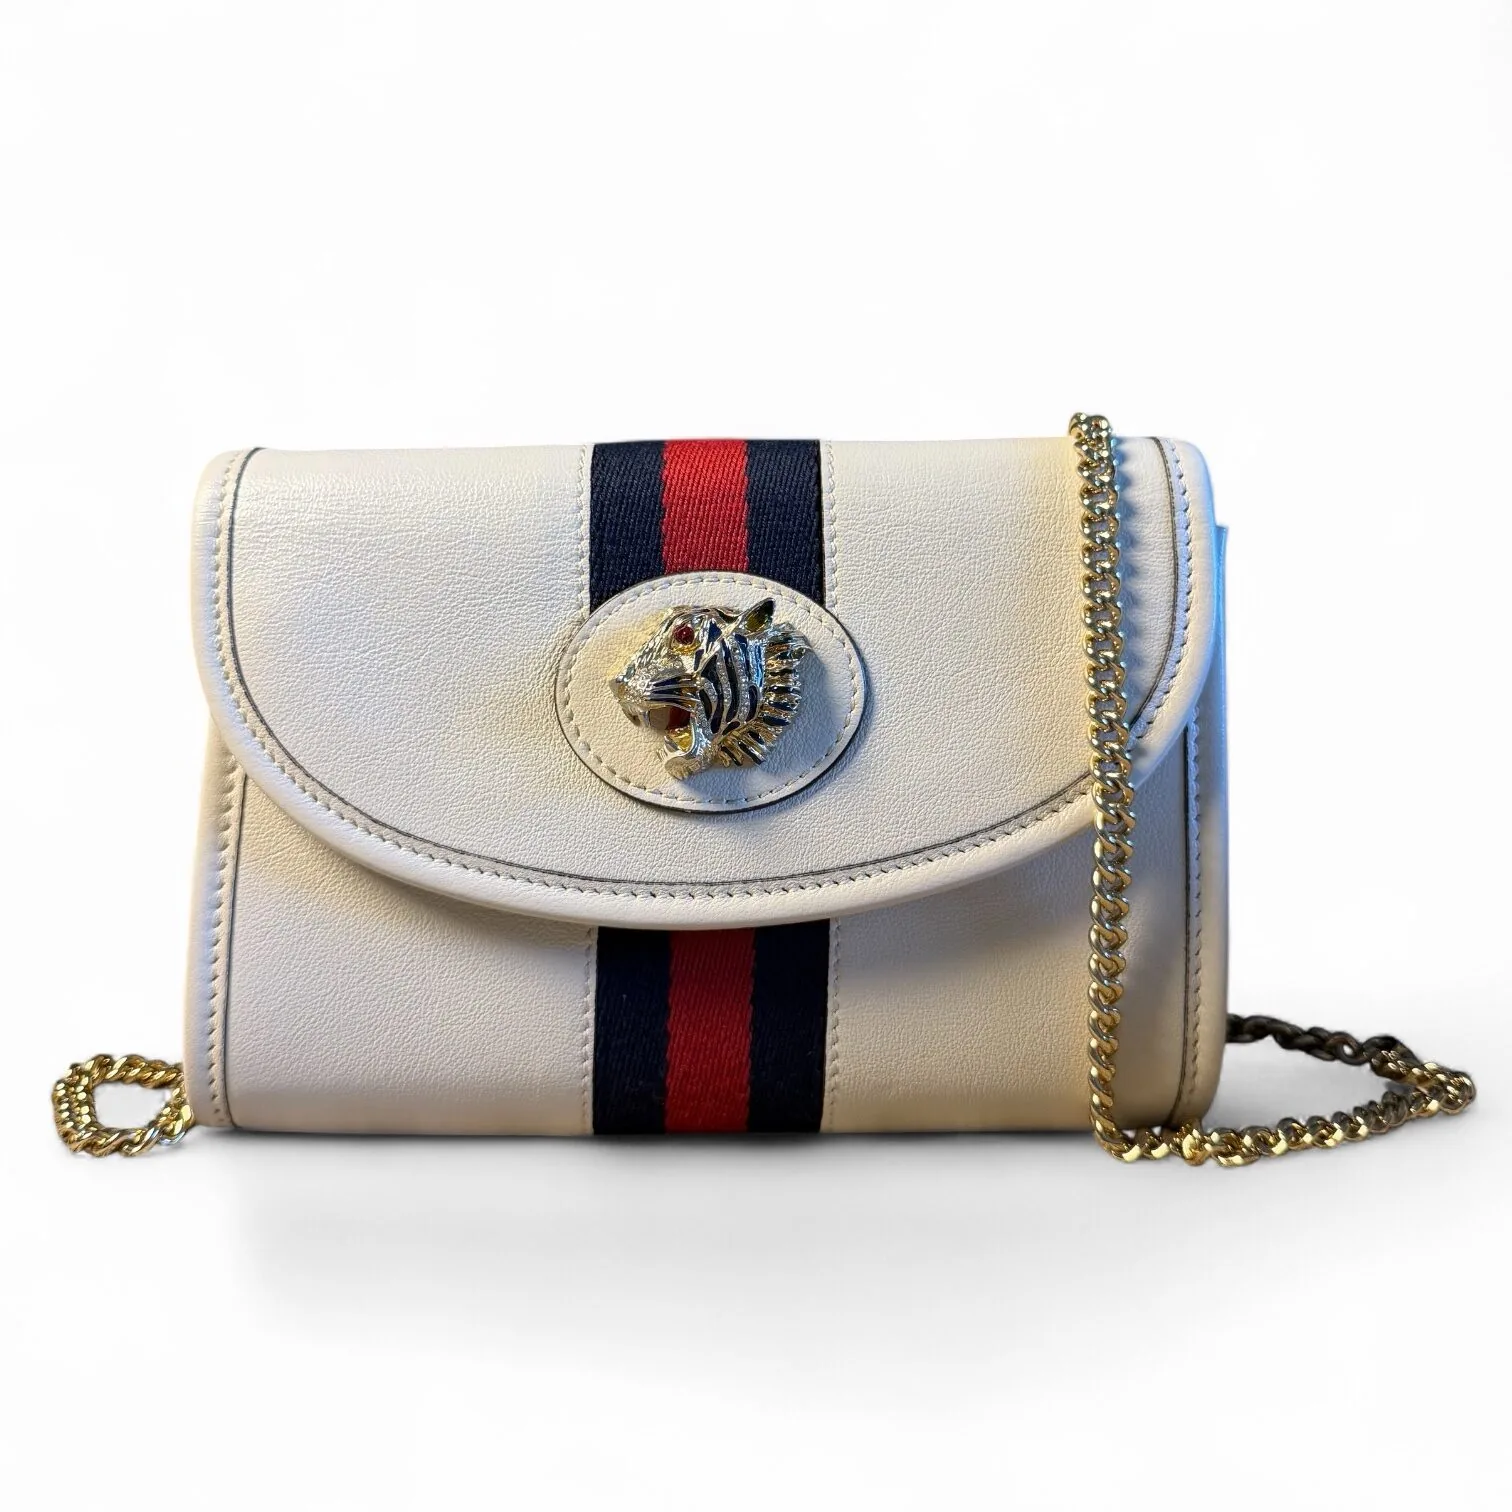
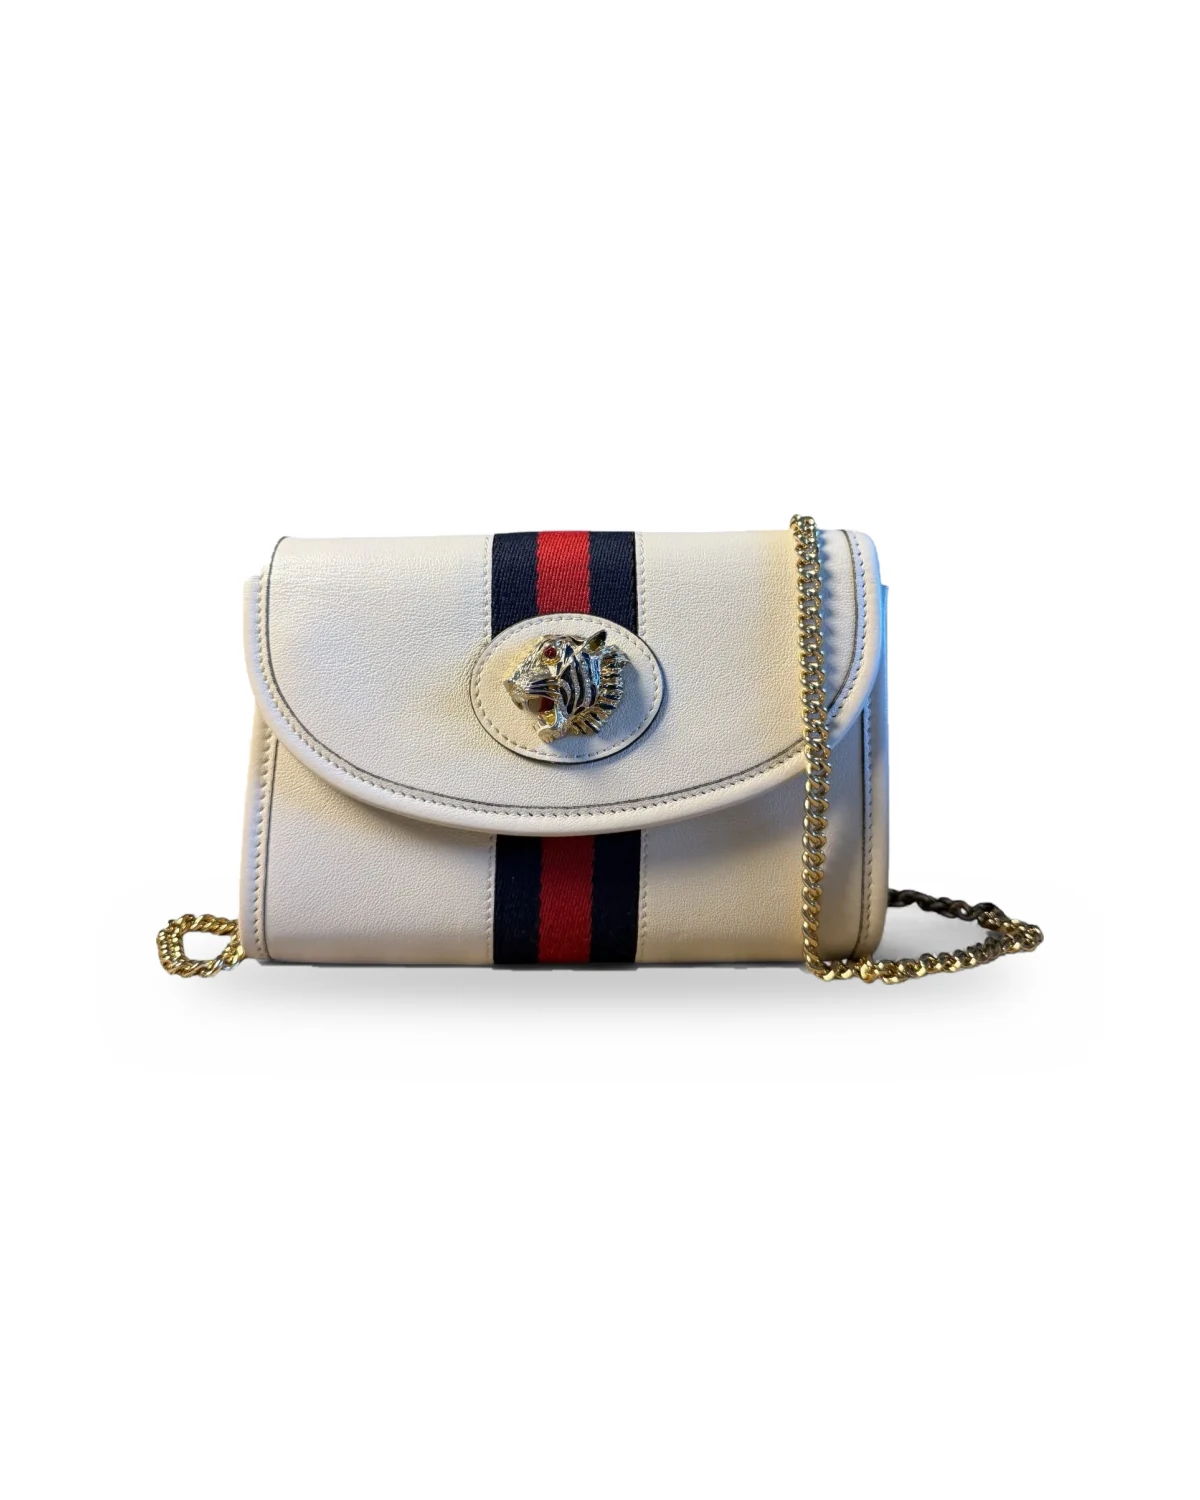
Lady Dior, Gucci Rajah e Dionysus Azul centralizadas e sem sombra recortada
Recorte da bolsa e sombra suave refeita, na vitrine e na página da bolsa.

Claude-Session: https://claude.ai/code/session_017J54g8czxFnWGDQWAsZJHN

diff --git a/aluguel.html b/aluguel.html
@@ -1474,11 +1474,11 @@ body {
   <div class="preco">A partir de R$ 1.890</div>
 </a>
 
-<a href="https://www.thebagroom.com.br/aluguel/lady-dior.html" class="card" data-fotos="/img/vitrine/w0Zm6sK-s.webp?v=3|/img/vitrine/BxG3iCO-s.webp?v=3" data-bolsa-slug="lady-dior" data-marca="Dior" data-cor="Cinza">
+<a href="https://www.thebagroom.com.br/aluguel/lady-dior.html" class="card" data-fotos="/img/vitrine/w0Zm6sK-s.webp?v=4|/img/vitrine/BxG3iCO-s.webp?v=3" data-bolsa-slug="lady-dior" data-marca="Dior" data-cor="Cinza">
   <div class="img-box">
     <span class="tag">Disponível</span>
-    <img src="/img/vitrine/oKDJn4El.webp?v=3" alt="Bolsa Lady Dior cinza">
-    <img class="img-hover" src="/img/vitrine/w0Zm6sK-s.webp?v=3" alt="" aria-hidden="true" loading="lazy" decoding="async">
+    <img src="/img/vitrine/oKDJn4El.webp?v=4" alt="Bolsa Lady Dior cinza">
+    <img class="img-hover" src="/img/vitrine/w0Zm6sK-s.webp?v=4" alt="" aria-hidden="true" loading="lazy" decoding="async">
   </div>
   <div class="nome">
     <span class="marca">Dior</span>
@@ -1491,7 +1491,7 @@ body {
 <a href="https://www.thebagroom.com.br/aluguel/gucci-dionysus-veludo-azul.html" class="card" data-fotos="/img/vitrine/ZgC7RfI-2.webp?v=3|/img/vitrine/gQHiRGn-s.webp?v=3" data-bolsa-slug="gucci-dionysus-veludo-azul" data-marca="Gucci" data-cor="Azul">
   <div class="img-box">
     <span class="tag">Disponível</span>
-    <img src="/img/vitrine/cWeUrHzl.webp?v=3" alt="Bolsa Gucci Dionysus">
+    <img src="/img/vitrine/cWeUrHzl.webp?v=4" alt="Bolsa Gucci Dionysus">
     <img class="img-hover" src="/img/vitrine/ZgC7RfI-2.webp?v=3" alt="" aria-hidden="true" loading="lazy" decoding="async">
   </div>
   <div class="nome">
@@ -1504,7 +1504,7 @@ body {
 <a href="https://www.thebagroom.com.br/aluguel/gucci-rajah.html" class="card" data-fotos="/img/vitrine/f5mnqqV-2.webp?v=3|/img/vitrine/DwBP3Nt-s.webp?v=3" data-bolsa-slug="gucci-rajah" data-marca="Gucci" data-cor="Branco">
   <div class="img-box">
     <span class="tag">Disponível</span>
-    <img loading="lazy" decoding="async" src="/img/vitrine/iUrTpzDl.webp?v=3" alt="Bolsa Gucci Rajah">
+    <img loading="lazy" decoding="async" src="/img/vitrine/iUrTpzDl.webp?v=4" alt="Bolsa Gucci Rajah">
     <img class="img-hover" src="/img/vitrine/f5mnqqV-2.webp?v=3" alt="" aria-hidden="true" loading="lazy" decoding="async">
   </div>
   <div class="nome">
